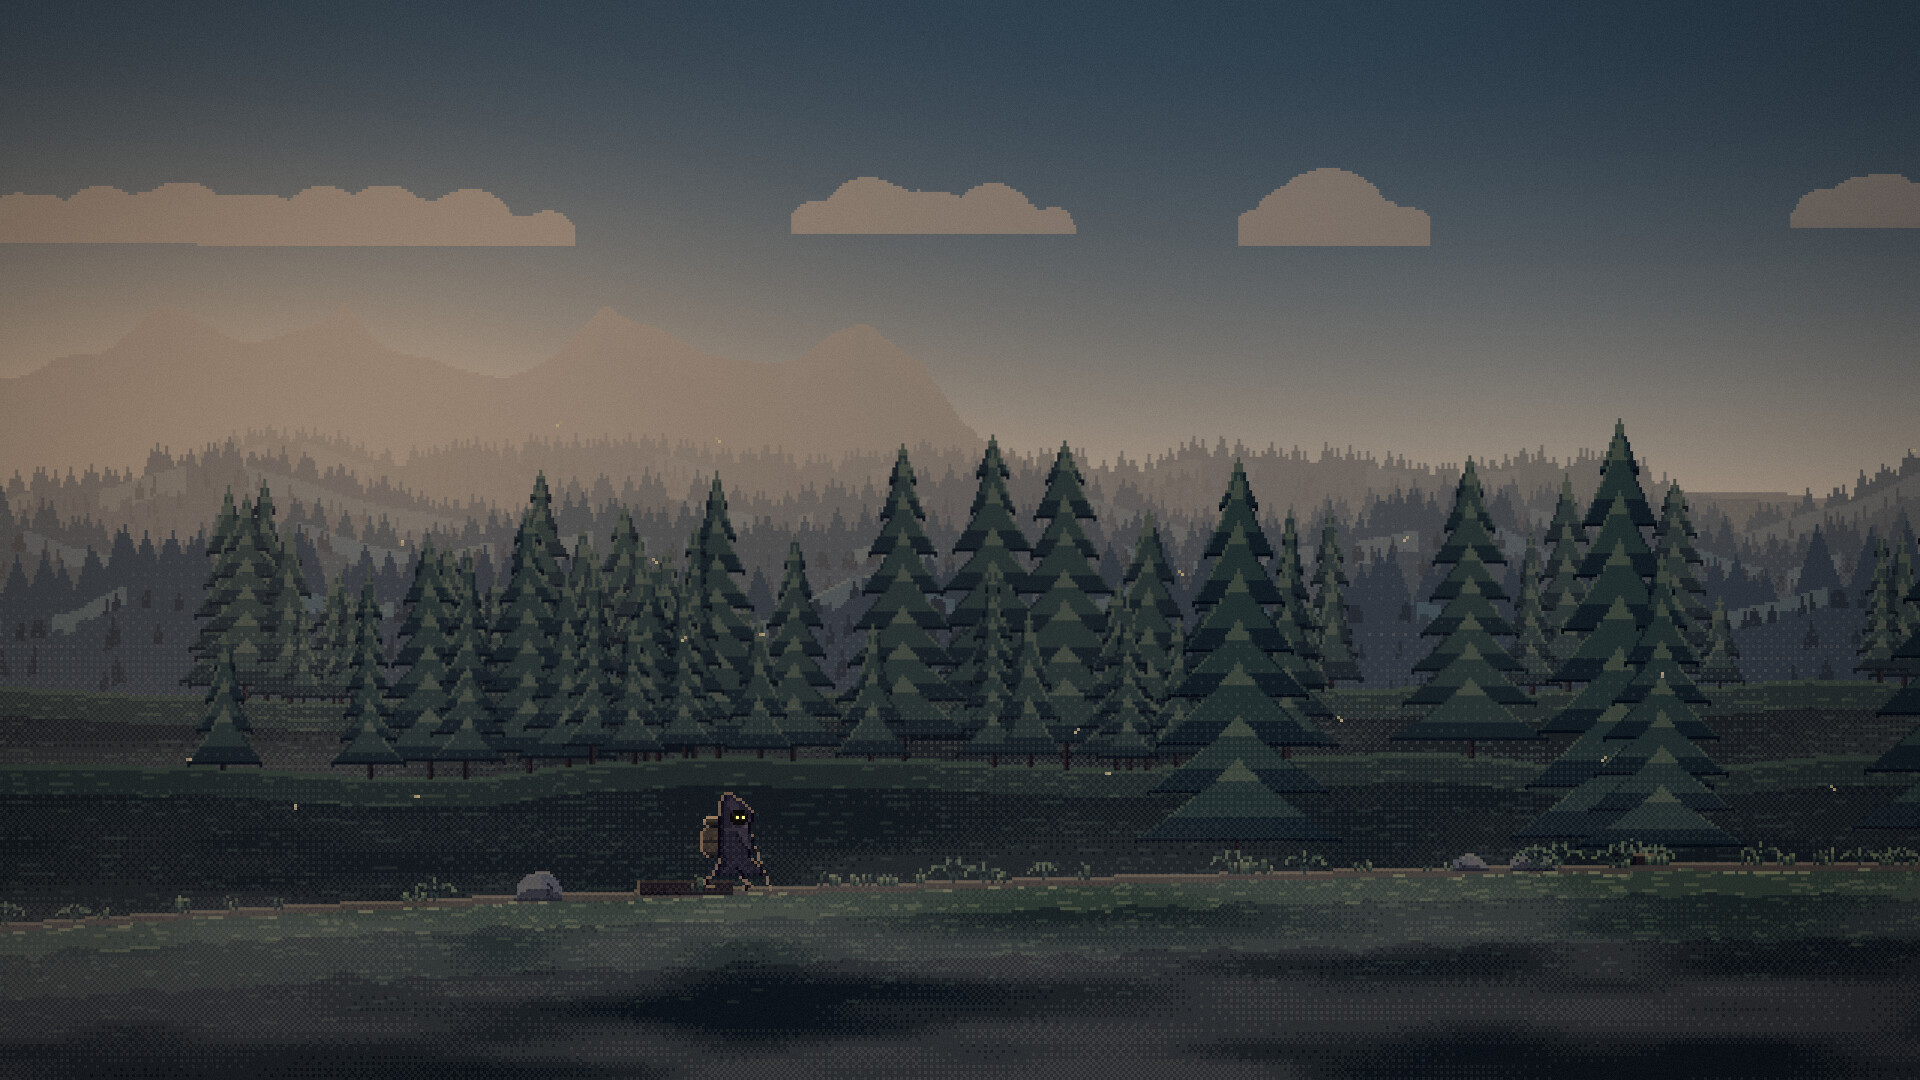
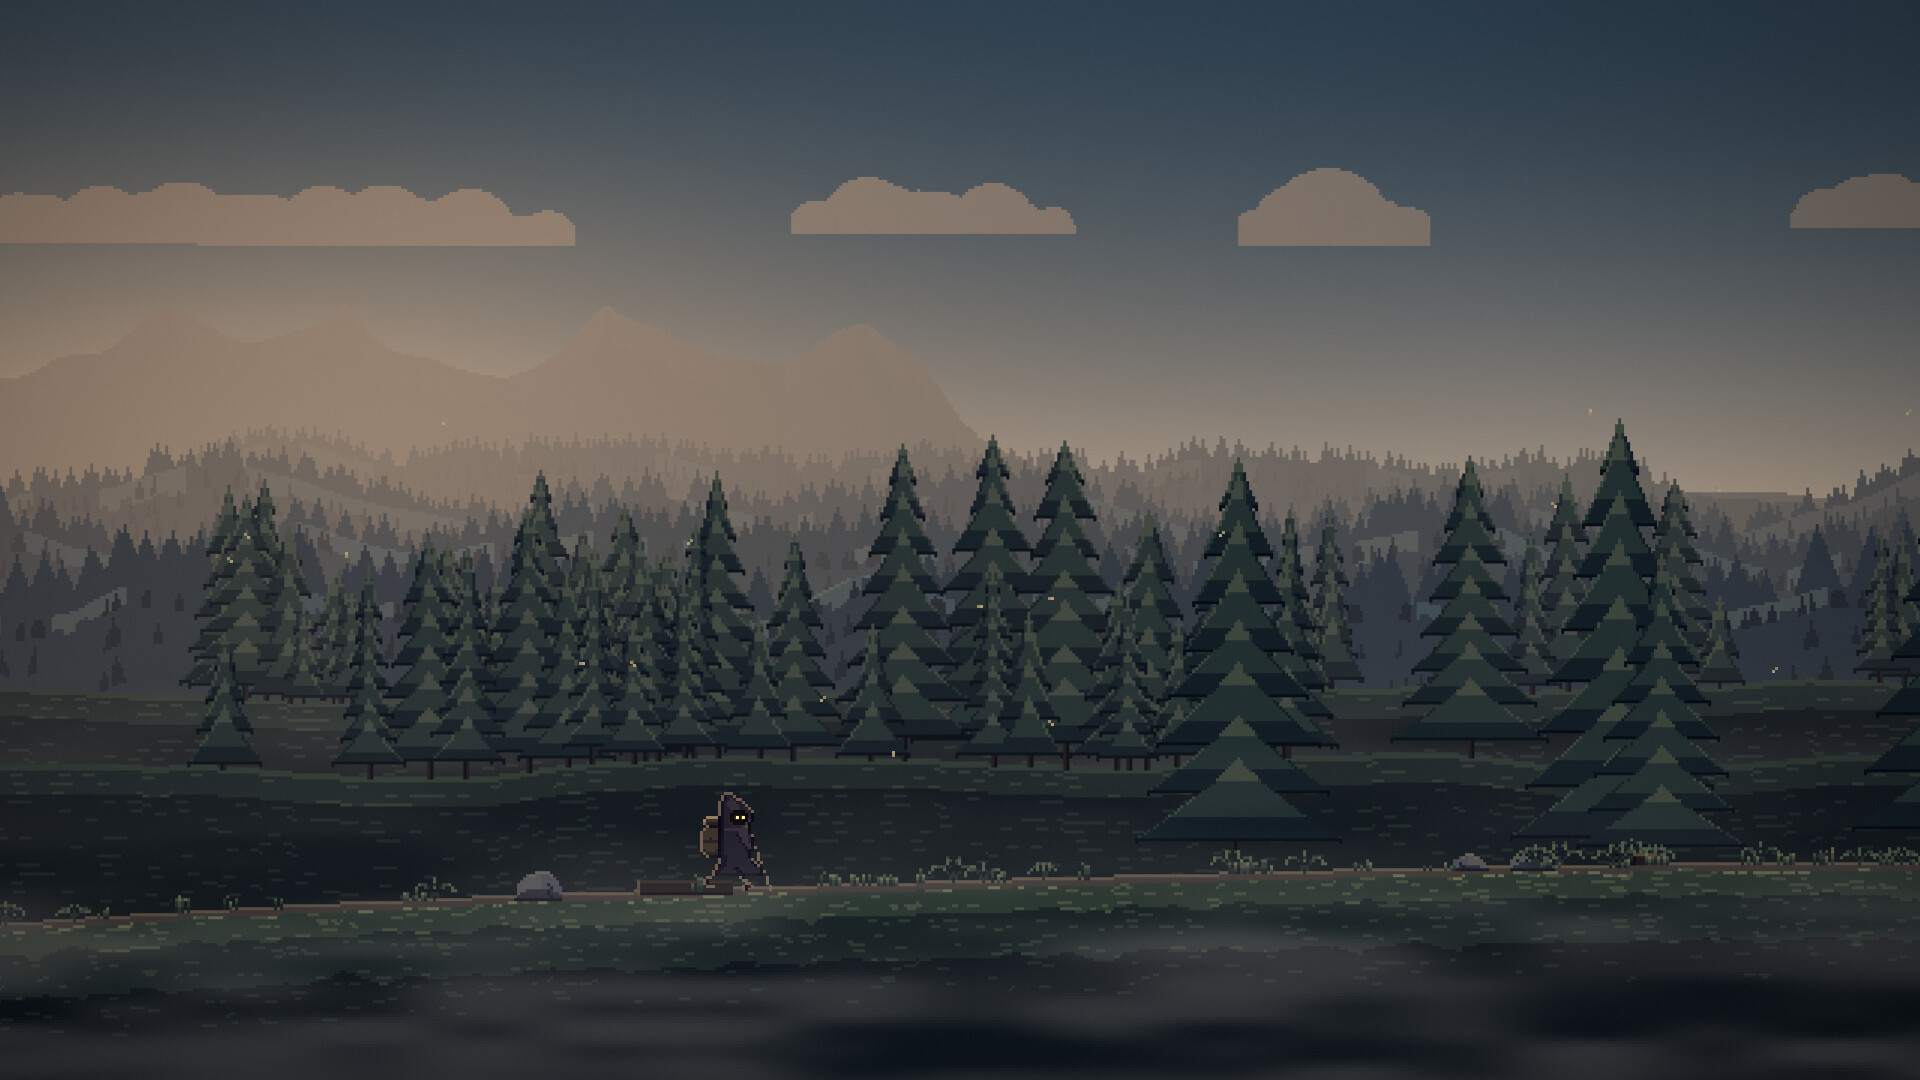
fix: a clean sky and still water on the live page
The world's own weather sits between the named ones, and there the cloud deck
showed column by column, in hard-edged slabs across the sky. It now comes down
from the top as the sky closes, level and gently waving, and the clouds take
the colours of the sky over him, not of places 40 times further down the road.

The water blinked: its four tones rotated 2.2 times a second, and every glint
re-rolled at once, at full strength under cloud and in fog. The cycling is
gone; glints come and go on their own slow beats, only under a sun or moon that
can be seen, and only ever brighten. The fog is a smooth veil per art pixel
instead of a dither whose dots crawled as it drifted, and the grain is lighter.

The weather tour is drawn again. A test keeps the deck coming down level.

diff --git a/web/shaders.ts b/web/shaders.ts
@@ -42,6 +42,8 @@ uniform float u_time;
 uniform float u_gustX;
 uniform vec2 u_frac;
 uniform float u_cover;
+// The place he is in (biome slots a, b and the blend), for a layer coloured by it rather than by its own columns.
+uniform vec3 u_here;
 uniform vec3 u_shine;
 uniform float u_shineX;
 uniform float u_horizonY;
@@ -82,7 +84,9 @@ void main() {
   if (role == 0) { o_color = vec4(0.0); o_glow = vec4(0.0); return; }
   // The cloud layer: each pixel shows only once the sky is covered enough (its flags hold the cover it needs).
   if (u_cover >= 0.0 && float(flags & 127) > u_cover * 127.0) { o_color = vec4(0.0); o_glow = vec4(0.0); return; }
-  vec4 c = texelFetch(u_cols, ivec2(((gx % u_ringW) + u_ringW) % u_ringW, 0), 0);
+  // The clouds take the colours of the sky over him, as the sky does: coloured by their own columns (places 40 times
+  // further down the road) a deck would change colour in hard bands across the sky.
+  vec4 c = u_here.x >= 0.0 ? vec4(u_here.x / 255.0, u_here.y / 255.0, u_here.z, 0.0) : texelFetch(u_cols, ivec2(((gx % u_ringW) + u_ringW) % u_ringW, 0), 0);
   int a = int(c.r * 255.0 + 0.5);
   int b = int(c.g * 255.0 + 0.5);
   vec4 pa = texelFetch(u_palette, ivec2(role, u_rowBase + a), 0);
@@ -98,15 +102,20 @@ void main() {
       col = mix(col, max(col, alb * u_lightColor * 1.35), q);
     }
   }
-  // Water takes the low sun or the moon: a path of broken glints below it, widening toward the eye, flickering.
+  // Water takes the low sun or the moon: a path of broken glints below it, widening toward the eye. Each glint (two
+  // pixels wide) comes and goes on its own slow beat, so the path sparkles without the whole of it changing at once.
   if ((flags & 8) != 0 && dot(u_shine, u_shine) > 0.0) {
     vec2 sp = vec2(float(x), float(row)) - 1.0 - u_frac;
     float below = max(0.0, sp.y - u_horizonY);
     float width = 2.5 + below * 0.5;
     float d = (sp.x - u_shineX) / width;
     float k = exp(-d * d);
-    float h = fract(sin(dot(vec2(floor(float(gx) / 2.0), float(gy)) + floor(u_time * 2.5) * 7.13, vec2(12.9898, 78.233))) * 43758.5453);
-    if (h < 0.25 + 0.55 * k) col = mix(col, u_shine, k * 0.85);
+    vec2 cell = vec2(floor(float(gx) / 2.0), float(gy));
+    float phase = fract(sin(dot(cell, vec2(39.3468, 11.1353))) * 24634.6345);
+    float beat = floor(u_time * 1.2 + phase);
+    float h = fract(sin(dot(cell + beat * 7.13, vec2(12.9898, 78.233))) * 43758.5453);
+    // A glint only ever brightens: a faint sun or moon (through cloud) adds a little, never a dark fleck.
+    if (h < 0.25 + 0.55 * k) col = mix(col, max(col, u_shine), k * 0.85);
   }
   o_color = vec4(col, 1.0);
   o_glow = vec4(p.rgb * glow, glow);
@@ -320,10 +329,9 @@ void main() {
   float up = max(0.0, u_base - n.y);
   float band = exp(-up / u_height) * (n.y > u_base + u_height * 2.0 ? 0.6 : 1.0);
   float f = vnoise(p / vec2(110.0, 16.0) + vec2(u_time * 0.011, 0.0)) * 0.65 + vnoise(p / vec2(41.0, 7.0) - vec2(u_time * 0.019, 0.0)) * 0.35;
-  float a = u_density * band * smoothstep(0.22, 0.78, f);
-  // Quantised in eighths by an ordered dither fixed to the screen's pixels: pixel-art steps, no crawling pattern,
-  // and no visible dot grid in thin fog.
-  a = clamp(floor(a * 8.0 + bayer(n)) / 8.0, 0.0, 0.85);
+  // One value per art pixel, smooth between them: no dither, whose dots crawl as the fog drifts and speckle the
+  // whole scene in a thick one.
+  float a = clamp(u_density * band * smoothstep(0.22, 0.78, f), 0.0, 0.85);
   o_color = vec4(u_color * a, a);
 }`;
 

diff --git a/src/paint/clouds.ts b/src/paint/clouds.ts
@@ -12,6 +12,13 @@ import { Chunk } from './chunk.ts';
 
 const C = [role('cloud', 0), role('cloud', 1), role('cloud', 2), role('cloud', 3)];
 
+/**
+ * The cover (of 127, as the resolve shader compares it) at which the deck's top row shows, and its foot: it starts
+ * coming down from above the screen at about 75% and closes the sky at about 92%, an overcast sky. How much its edge
+ * waves, in cover.
+ */
+const DECK = { from: 92, to: 117, ragged: 1.2 } as const;
+
 /** One cloud cell every CELL layer px; a cloud is up to MAX px wide. */
 const CELL = 150;
 const MAX = 150;
@@ -57,16 +64,18 @@ export function paintClouds(c: Chunk, seed: number, layer: LayerDef, u0: number)
     const u = u0 + x;
     const blend = biomeAt(seed, columnDistance(u, layer.z));
     c.setColumnBiome(u, BIOME_IDS.indexOf(blend.a), BIOME_IDS.indexOf(blend.b), blend.k);
-    // The deck under heavy skies, shown only near full cover: it closes the whole sky from above the top of the
-    // screen down to a ragged foot, darker overhead (dithered into the lighter body), with the light of the horizon
-    // showing under it.
+    // The deck under heavy skies: as the sky closes it comes down from above the top of the screen, its edge ragged
+    // and level across the sky (each row needs a little more cover than the one above it, never a column more than
+    // its neighbour), until at full cover it reaches a ragged foot over the light of the horizon. Darker overhead,
+    // dithered into the lighter body.
     const deckTop = -44;
     const deckFoot = 128 + Math.round(fbm1(u / 25, seed ^ 0xdee, 2, 0.5) * 10);
-    const deckNeed = 98 + Math.round(fbm1(u / 200, seed ^ 0xdef, 2, 0.5) * 10);
+    const ragged = fbm1(u / 34, seed ^ 0xdef, 2, 0.5) * DECK.ragged;
     for (let row = deckTop; row < deckFoot; row++) {
       const dark = row < 14 || (row < 34 && ((u + row) & 1) === 0 && row < 14 + ((u * 7 + row * 3) % 20));
       const r = row >= deckFoot - 10 ? C[0] : dark ? C[0] : C[1];
-      c.set(u, layer.top + row, r, deckNeed);
+      const need = DECK.from + ((DECK.to - DECK.from) * (row - deckTop)) / (deckFoot - deckTop) + ragged;
+      c.set(u, layer.top + row, r, Math.max(0, Math.min(127, Math.round(need))));
     }
     for (const cl of clouds) {
       for (let row = cl.base - 40; row <= cl.base; row++) {

diff --git a/web/stage.ts b/web/stage.ts
@@ -79,6 +79,7 @@ export class Stage {
       light: { lights: new Float32Array(24), count: 0, color: new Float32Array([1, 0.62, 0.32]), albedoRow: ALBEDO_ROW },
       bloom: 0.5,
       cover: 0,
+      here: new Float32Array([0, 0, 0]),
       cloudDrift: 0,
       fogBase: new Float32Array(4),
       fogHeight: new Float32Array(4),
@@ -169,17 +170,22 @@ export class Stage {
     // over the cold lands on some clear nights.
     const dark = Math.max(0, (this.grade.night - 0.5) * 2) * (1 - Math.min(1, w.cloud * 1.6)) * (1 - w.fog);
     const here = biomeAt(l.seed, l.at);
+    v.here[0] = BIOME_IDS.indexOf(here.a);
+    v.here[1] = BIOME_IDS.indexOf(here.b);
+    v.here[2] = here.k;
     v.milky = dark * (1 - 0.6 * m.moonlight * v.moonUp) * (1 - 0.5 * blended(here, (id) => (id === 'ruins' || id === 'rail' ? 1 : 0)));
     const cold = blended(here, (id) => (id === 'tundra' ? 1 : id === 'pass' ? 0.7 : id === 'coast' || id === 'saltflat' ? 0.35 : 0));
     const which = Math.floor(l.clock / 24 + 0.5);
     v.aurora = cold * dark * (unit(which, l.seed ^ 0xa0a0) < 0.6 ? 1 : 0);
 
-    // What the water reflects: the sun while it is low, the moon by night, both dimmed by cloud.
-    const clear = 1 - Math.min(1, w.cloud * 1.2);
+    // What the water reflects: the sun while it is low, the moon by night, as bright as they can be seen through the
+    // cloud and the fog (none at all in a thick one).
+    const clear = (1 - Math.min(1, w.cloud * 1.2)) * (1 - w.fog);
     const lowSun = v.sunUp * clear * Math.max(0, 1 - m.elevation / 30);
     if (lowSun > 0.02) {
       labToBytes(this.grade.glow[0] + 0.12, this.grade.glow[1], this.grade.glow[2], this.bytes, 0);
-      for (let i = 0; i < 3; i++) v.shine[i] = this.bytes[i] / 255;
+      const seen = Math.min(1, lowSun * 2.5);
+      for (let i = 0; i < 3; i++) v.shine[i] = (this.bytes[i] / 255) * seen;
       v.shineX = v.sunX;
     } else {
       const moon = v.moonUp * clear * this.grade.night * (0.4 + 0.6 * m.moonlight);

diff --git a/web/render.ts b/web/render.ts
@@ -77,6 +77,8 @@ export type View = {
   bloom: number;
   /** How much of the sky is under cloud (0..1), and how far the clouds have drifted (layer px). */
   cover: number;
+  /** The place he is in: biome slots and the blend between them (the clouds are coloured by it). */
+  here: Float32Array;
   cloudDrift: number;
   /** Fog veils drawn after layers FOG_AFTER[i]: their floor row on screen, thickness, density, drift; colour. */
   fogBase: Float32Array;
@@ -447,6 +449,8 @@ export class Renderer {
       gl.uniform2f(this.resolve.u('u_frac'), l.fx, l.fy);
       gl.uniform1f(this.resolve.u('u_lightGain'), lightGain(l.def.kind, l.def.z));
       gl.uniform1f(this.resolve.u('u_cover'), l.def.kind === 'clouds' ? v.cover : -1);
+      if (l.def.kind === 'clouds') gl.uniform3fv(this.resolve.u('u_here'), v.here);
+      else gl.uniform3f(this.resolve.u('u_here'), -1, -1, 0);
       gl.bindFramebuffer(gl.FRAMEBUFFER, l.fb);
       gl.viewport(0, 0, this.nativeW + 2, this.nativeH + 2);
       gl.activeTexture(gl.TEXTURE0);
@@ -606,7 +610,7 @@ export class Renderer {
     gl.uniform4f(this.final.u('u_viewport'), vx, vy, vw, vh);
     gl.uniform2f(this.final.u('u_size'), this.canvasW, this.canvasH);
     gl.uniform1f(this.final.u('u_time'), v.time % 1000);
-    gl.uniform1f(this.final.u('u_grain'), 0.035);
+    gl.uniform1f(this.final.u('u_grain'), 0.012);
     gl.uniform1f(this.final.u('u_vignette'), 0.32);
     gl.uniform3f(this.final.u('u_lift'), v.flash * 0.18, v.flash * 0.2, v.flash * 0.26);
     gl.drawArrays(gl.TRIANGLE_STRIP, 0, 4);

diff --git a/test/clouds.test.ts b/test/clouds.test.ts
@@ -1,0 +1,23 @@
+import { test } from 'node:test';
+import assert from 'node:assert/strict';
+import { LAYERS } from '../src/layers.ts';
+import { seedOf } from '../src/options.ts';
+import { Chunk } from '../src/paint/chunk.ts';
+import { paintClouds } from '../src/paint/clouds.ts';
+
+test('the cloud deck comes down from the top as the sky closes, level across the sky', () => {
+  const layer = LAYERS[0];
+  const c = new Chunk(128, layer.height);
+  const need = (x: number, row: number): number => c.data[((layer.top + row) * c.w + x) * 2 + 1] & 127;
+  for (const u0 of [0, 4096, 131072]) {
+    paintClouds(c, seedOf('wander'), layer, u0);
+    for (let x = 0; x < c.w; x++) {
+      // Above the heaps only the deck is painted: each row needs at least as much cover as the row above it, so the
+      // deck shows from the top down, never a whole column at once (that drew hard-edged slabs across the sky).
+      for (let row = -43; row < 10; row++) assert.ok(need(x, row) >= need(x, row - 1), `u ${u0 + x}, row ${row}`);
+      assert.ok(need(x, 10) - need(x, -44) >= 4, `u ${u0 + x}: the deck comes down, not all at once`);
+      // Next to each other, columns hardly differ: its edge waves, it does not step.
+      if (x > 0) for (let row = -44; row < 10; row++) assert.ok(Math.abs(need(x, row) - need(x - 1, row)) <= 1, `u ${u0 + x}, row ${row}`);
+    }
+  }
+});

diff --git a/src/sky.ts b/src/sky.ts
@@ -254,7 +254,15 @@ export function weatherAt(worldHours: number, seed: number, t: Tendency): Weathe
 }
 
 /** Weather fixed by name, for the frozen mode and the tour. `wind` is also accepted: clear and blowing. */
-export function namedWeather(name: string, windSign = 1): Weather | null {
+export function namedWeather(spec: string, windSign = 1): Weather | null {
+  // "overcast@0.8": a named weather with another cloud cover (for pictures of the sky between the named ones).
+  const [name, cover] = spec.split('@');
+  const named = namedWeatherOf(name, windSign);
+  const c = Number(cover);
+  return named === null || cover === undefined || !Number.isFinite(c) ? named : { ...named, cloud: clamp01(c) };
+}
+
+function namedWeatherOf(name: string, windSign: number): Weather | null {
   const w = (cloud: number, precip: number, kind: Precip, storm: boolean, fog: number, wind: number, n: WeatherName): Weather => ({
     cloud,
     precip,

diff --git a/src/palette.ts b/src/palette.ts
@@ -36,7 +36,9 @@ const FAMILIES: readonly Family[] = [
   { name: 'sand', steps: 4 },
   { name: 'snow', steps: 4 },
   { name: 'salt', steps: 3 },
-  { name: 'water', steps: 4, cycle: true },
+  // Not colour-cycled: four tones this far apart, rotating, make every pixel of a pool blink from dark to light. The
+  // water lives by its glints under a sun or moon that can be seen.
+  { name: 'water', steps: 4 },
   { name: 'stone', steps: 4 },
   { name: 'brick', steps: 3 },
   { name: 'wood', steps: 4 },
